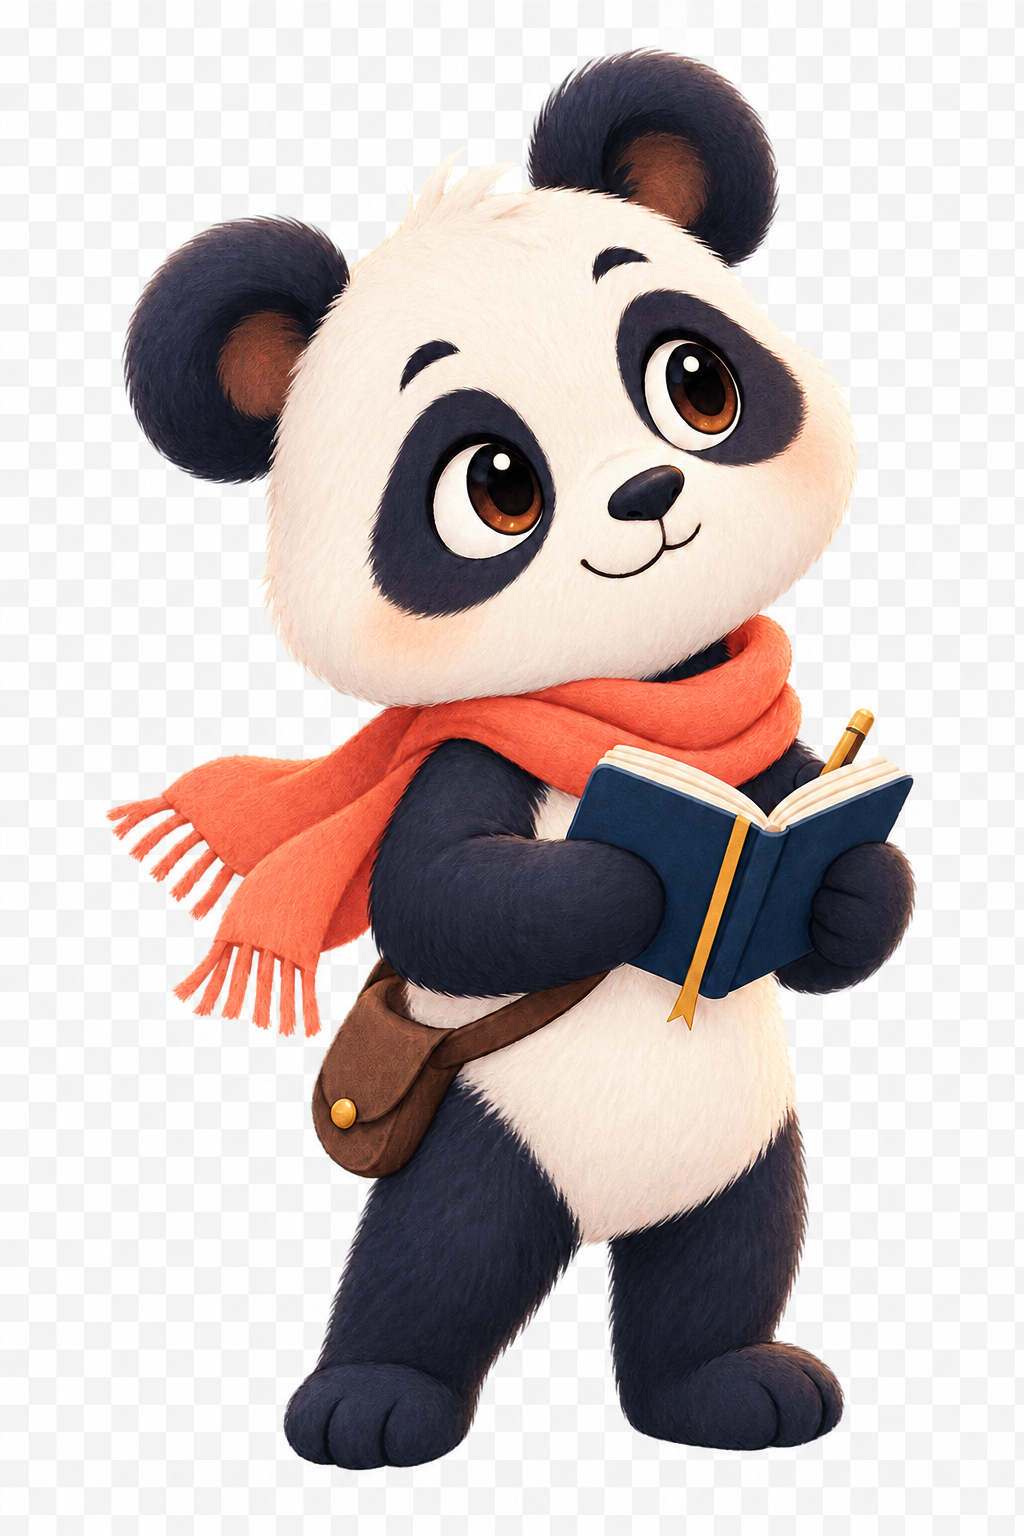
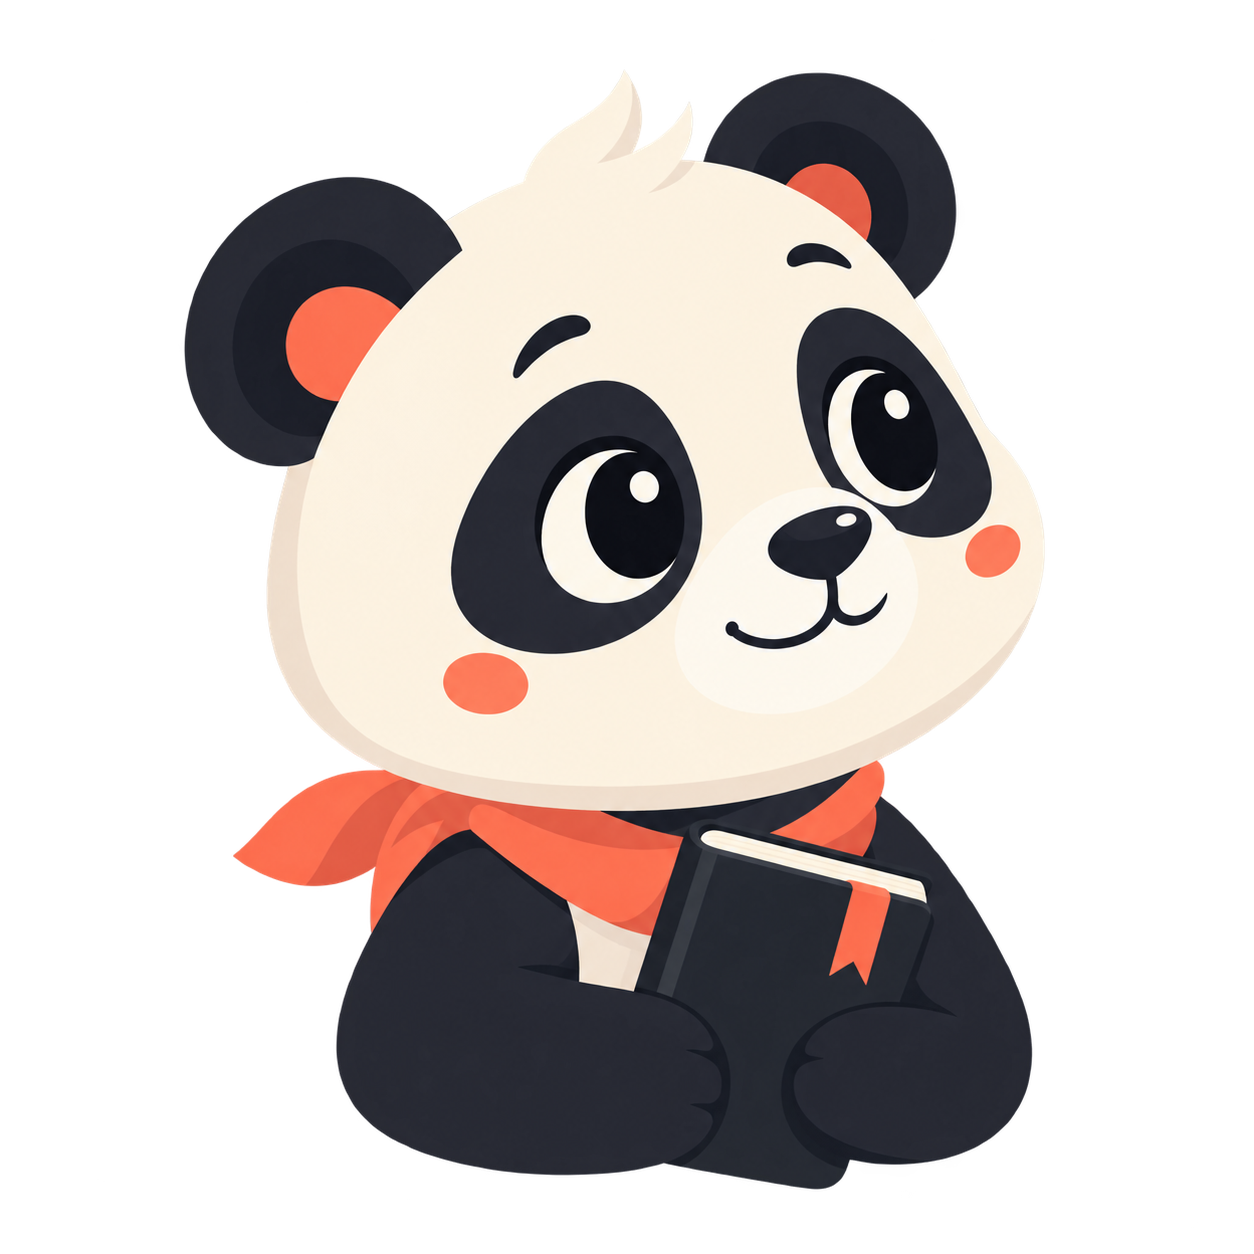
sparky-copy-and-mascot-refresh

diff --git a/src/app/page.tsx b/src/app/page.tsx
@@ -55,7 +55,7 @@ export default function Home() {
     const modelContext = (document as Document & { modelContext?: ModelContext }).modelContext;
     if (!modelContext?.registerTool) return;
     const lifecycle = new AbortController();
-    void modelContext.registerTool({
+    void Promise.resolve(modelContext.registerTool({
       name: "start_sparky_lesson", title: "Start a Sparky lesson", description: "Open a specific lesson in the visible Sparky English player.", inputSchema: { type: "object", properties: { lessonId: { type: "string" } }, required: ["lessonId"], additionalProperties: false }, annotations: { readOnlyHint: false, untrustedContentHint: false },
       execute(input: unknown) {
         const lessonId = isRecord(input) && typeof input.lessonId === "string" ? input.lessonId : "";
@@ -64,7 +64,7 @@ export default function Home() {
         setView("today"); setActiveLesson(lesson.steps.length ? lesson : { ...lesson, steps: lessons[0].steps }); setLessonStep(0); setSelectedAnswer(null);
         return { lessonId: lesson.id, title: lesson.title, status: "opened" };
       },
-    }, { signal: lifecycle.signal });
+    }, { signal: lifecycle.signal })).catch(() => undefined);
     return () => lifecycle.abort();
   }, []);
 
@@ -89,7 +89,12 @@ function ReviewView({ onStart }: { onStart: () => void }) { return <div classNam
 function ProfileView() { return <div className="mt-10"><p className="eyebrow">Your space</p><h2 className="mt-2 text-3xl font-semibold tracking-tight">Profile & preferences</h2><div className="mt-8 grid gap-4 sm:grid-cols-2"><div className="rounded-[2rem] border border-[#dfe3dc] bg-white/75 p-6"><p className="text-sm text-[#77908d]">Current level</p><p className="mt-2 text-3xl font-semibold">A1</p><p className="mt-2 text-sm text-[#6b7d7e]">Building the essentials</p></div><div className="rounded-[2rem] border border-[#dfe3dc] bg-white/75 p-6"><p className="text-sm text-[#77908d]">Total XP</p><p className="mt-2 text-3xl font-semibold">420</p><p className="mt-2 text-sm text-[#6b7d7e]">Sparky is impressed</p></div></div></div>; }
 function LessonCard({ lesson, index, done, onOpen, wide = false }: { lesson: Lesson; index: number; done: boolean; onOpen: (lesson: Lesson) => void; wide?: boolean }) { return <button onClick={() => onOpen(lesson)} className={`group flex w-full items-center gap-4 rounded-[1.5rem] border border-[#dfe3dc] bg-white/70 p-4 text-left transition hover:-translate-y-0.5 hover:border-[#c7d8ce] hover:bg-white ${wide ? "p-5" : ""}`}><div className={`grid h-12 w-12 shrink-0 place-items-center rounded-2xl ${done ? "bg-[#e4f0e8] text-[#4d8e75]" : "bg-[#fbe5d7] text-[#df7847]"}`}>{done ? <Check className="h-5 w-5" /> : <span className="font-mono text-sm">0{index + 1}</span>}</div><div className="min-w-0 flex-1"><div className="flex flex-wrap items-center gap-2"><p className="text-xs font-semibold uppercase tracking-[0.12em] text-[#7a918f]">{lesson.level}</p><span className="text-xs text-[#a0afac]">· {lesson.minutes} min</span></div><p className="mt-1 truncate font-semibold">{lesson.title}</p><p className="mt-1 text-sm text-[#6b7d7e]">{lesson.unit}</p></div><ChevronRight className="h-5 w-5 shrink-0 text-[#a4b4b0] transition group-hover:translate-x-1 group-hover:text-[#d96f42]" /></button>; }
 function LessonPlayer({ lesson, step, stepIndex, progress, selectedAnswer, onSelect, onNext, onClose }: { lesson: Lesson; step: LessonStep; stepIndex: number; progress: number; selectedAnswer: string | null; onSelect: (answer: string) => void; onNext: () => void; onClose: () => void }) { const isQuestion = step.kind === "choice" || step.kind === "complete_sentence"; const isCorrect = selectedAnswer && selectedAnswer === step.answer; return <div className="fixed inset-0 z-50 flex items-center justify-center bg-[#102a31]/80 p-4 backdrop-blur-md"><div className="flex h-[min(760px,calc(100vh-2rem))] w-full max-w-3xl flex-col overflow-hidden rounded-[2rem] bg-[#f8f4ed] shadow-2xl"><header className="flex items-center gap-4 border-b border-[#dfe3dc] px-5 py-4 sm:px-8"><button onClick={onClose} aria-label="Close lesson" className="grid h-9 w-9 place-items-center rounded-full text-[#6b7d7e] hover:bg-[#e9eee8]"><X className="h-4 w-4" /></button><div className="min-w-0 flex-1"><p className="truncate text-sm font-semibold">{lesson.title}</p><div className="mt-2 h-1.5 overflow-hidden rounded-full bg-[#e1e8e0]"><div className="h-full rounded-full bg-[#e78554] transition-all" style={{ width: `${progress}%` }} /></div></div><span className="font-mono text-xs text-[#7e9290]">{stepIndex + 1}/{lesson.steps.length}</span></header><div className="flex flex-1 flex-col items-center justify-center overflow-y-auto px-6 py-10 sm:px-16"><div className="grid h-20 w-20 place-items-center rounded-[1.75rem] bg-[#e5efea]"><Image src="/visuals/sparky-panda.png" alt="Sparky" width={100} height={140} className="mascot-cutout h-28 w-auto object-contain" /></div><p className="mt-8 text-center text-xs font-semibold uppercase tracking-[0.18em] text-[#df7847]">{step.kind === "teach" ? "A small idea" : step.kind === "summary" ? "Nice work" : "Try it"}</p><h2 className="mt-3 max-w-xl text-center text-3xl font-semibold leading-tight tracking-tight sm:text-4xl">{step.title}</h2><p className="mt-5 max-w-xl text-center text-base leading-7 text-[#617779]">{step.body}</p>{step.prompt && <p className="mt-8 rounded-2xl bg-white px-5 py-4 text-center text-xl font-semibold shadow-sm">{step.prompt}</p>}{isQuestion && step.options && <div className="mt-7 grid w-full max-w-xl gap-3">{step.options.map((option) => <button key={option} onClick={() => onSelect(option)} className={`rounded-2xl border px-5 py-4 text-left font-medium transition ${selectedAnswer === option ? option === step.answer ? "border-[#78a98e] bg-[#e8f3e9] text-[#3d725c]" : "border-[#d9785b] bg-[#fff0e9] text-[#ad5038]" : "border-[#dfe3dc] bg-white hover:border-[#b9cec3]"}`}>{option}</button>)}</div>}{isQuestion && selectedAnswer && <p className={`mt-5 text-sm font-medium ${isCorrect ? "text-[#438064]" : "text-[#ad5038]"}`}>{isCorrect ? "Exactly — that sounds natural." : `Almost. The best answer is “${step.answer}”.`}</p>}</div><footer className="flex items-center justify-between border-t border-[#dfe3dc] px-6 py-5 sm:px-8"><p className="text-sm text-[#81918f]">{step.kind === "summary" ? "Lesson complete" : "Take your time"}</p><button onClick={onNext} disabled={isQuestion && !selectedAnswer} className="primary-button disabled:cursor-not-allowed disabled:opacity-40">{stepIndex === lesson.steps.length - 1 ? "Finish lesson" : "Continue"}<ArrowRight className="h-4 w-4" /></button></footer></div></div>; }
-function Brand({ compact = false, light = false }: { compact?: boolean; light?: boolean }) { return <div className={`flex items-center gap-3 ${light ? "text-[#f9f4e9]" : "text-[#172b32]"}`}><div className="grid h-10 w-10 place-items-center rounded-2xl bg-[#e78554] text-white shadow-[0_8px_20px_-10px_rgba(215,111,66,0.8)]"><Sparkles className="h-5 w-5" /></div>{!compact && <div><p className="font-semibold tracking-tight">Sparky English</p><p className={`text-[0.68rem] uppercase tracking-[0.18em] ${light ? "text-[#9fbab3]" : "text-[#7a918f]"}`}>Learn with ease</p></div>}</div>; }
+function Brand({ compact = false, light = false }: { compact?: boolean; light?: boolean }) {
+  return <div className={`flex items-center gap-3 ${light ? "text-[#f9f4e9]" : "text-[#172b32]"}`}>
+    <div className="grid h-10 w-10 place-items-center rounded-2xl bg-[#e78554] text-white shadow-[0_8px_20px_-10px_rgba(215,111,66,0.8)]"><Sparkles className="h-5 w-5" /></div>
+    {!compact && <p className="font-semibold tracking-tight">Sparky English</p>}
+  </div>;
+}
 function NavButton({ item, active, onClick }: { item: (typeof navItems)[number]; active: boolean; onClick: () => void }) { const Icon = item.icon; return <button onClick={onClick} className={`flex w-full items-center gap-3 rounded-2xl px-3 py-3 text-sm font-medium transition ${active ? "bg-[#e7eee7] text-[#172b32]" : "text-[#78908e] hover:bg-white/60 hover:text-[#172b32]"}`}><Icon className="h-4 w-4" />{item.label}</button>; }
 type ModelContext = { registerTool: (tool: { name: string; title?: string; description: string; inputSchema: object; annotations?: object; execute: (input: unknown) => unknown | Promise<unknown> }, options?: { signal?: AbortSignal }) => void | Promise<void> };
 function isRecord(value: unknown): value is Record<string, unknown> { return typeof value === "object" && value !== null && !Array.isArray(value); }

diff --git a/src/app/opengraph-image.tsx b/src/app/opengraph-image.tsx
@@ -1,0 +1,45 @@
+import { ImageResponse } from "next/og";
+
+export const alt = "Sparky English";
+export const size = { width: 1200, height: 630 };
+export const contentType = "image/png";
+
+export default function OpenGraphImage() {
+  return new ImageResponse(
+    (
+      <div
+        style={{
+          alignItems: "center",
+          background: "#172b32",
+          color: "#f8f4ed",
+          display: "flex",
+          height: "100%",
+          justifyContent: "space-between",
+          padding: "72px 82px",
+          position: "relative",
+          width: "100%",
+        }}
+      >
+        <div style={{ display: "flex", flexDirection: "column", maxWidth: 650 }}>
+          <div style={{ color: "#f3a16c", display: "flex", fontSize: 26, letterSpacing: 5, textTransform: "uppercase" }}>
+            Espaço privado
+          </div>
+          <div style={{ display: "flex", fontSize: 76, fontWeight: 700, letterSpacing: -3, marginTop: 22 }}>
+            Sparky English
+          </div>
+          <div style={{ color: "#c7d5d0", display: "flex", fontSize: 30, lineHeight: 1.35, marginTop: 28 }}>
+            Aulas, prática e revisão para o inglês do dia a dia.
+          </div>
+        </div>
+        <div style={{ alignItems: "center", background: "#e78554", borderRadius: 92, display: "flex", height: 240, justifyContent: "center", position: "relative", width: 240 }}>
+          <div style={{ background: "#1e2932", borderRadius: 46, display: "flex", height: 112, left: 17, position: "absolute", top: 17, width: 112 }} />
+          <div style={{ background: "#1e2932", borderRadius: 46, display: "flex", height: 112, position: "absolute", right: 17, top: 17, width: 112 }} />
+          <div style={{ alignItems: "center", background: "#f8f4ed", borderRadius: 80, display: "flex", height: 158, justifyContent: "center", marginTop: 38, width: 174 }}>
+            <div style={{ alignItems: "center", background: "#172b32", borderRadius: 999, color: "#f8f4ed", display: "flex", fontSize: 42, fontWeight: 700, height: 80, justifyContent: "center", width: 80 }}>S</div>
+          </div>
+        </div>
+      </div>
+    ),
+    size,
+  );
+}

diff --git a/src/app/layout.tsx b/src/app/layout.tsx
@@ -17,17 +17,16 @@ export const metadata: Metadata = {
     process.env.NEXT_PUBLIC_SITE_URL ??
       (process.env.VERCEL_URL ? `https://${process.env.VERCEL_URL}` : "http://localhost:3000"),
   ),
-  title: "Sparky English | Learn with ease",
-  description: "Private, practical English lessons with Sparky.",
+  title: "Sparky English",
+  description: "Um espaço privado para estudar inglês de forma prática.",
   applicationName: "Sparky English",
   appleWebApp: { capable: true, title: "Sparky English", statusBarStyle: "default" },
   openGraph: {
     title: "Sparky English",
-    description: "Pequenas lições. Progresso que fica.",
+    description: "Aulas, prática e revisão para usar inglês no dia a dia.",
     type: "website",
-    images: [{ url: "/og.png", width: 1200, height: 630, alt: "Sparky English" }],
   },
-  twitter: { card: "summary_large_image", images: ["/og.png"] },
+  twitter: { card: "summary" },
 };
 
 export default function RootLayout({ children }: LayoutProps<"/">) {

diff --git a/src/app/globals.css b/src/app/globals.css
@@ -12,5 +12,5 @@ button { cursor: pointer; }
 .primary-button:hover { background: #d87346; transform: translateY(-1px); box-shadow: 0 15px 30px -16px rgba(215, 111, 66, 0.95); }
 .hero-card { background: radial-gradient(circle at 85% 12%, rgba(93, 157, 151, 0.65), transparent 34%), linear-gradient(135deg, #17333a 0%, #214b4e 100%); }
 .glass-panel { background: linear-gradient(145deg, rgba(16, 43, 49, 0.78), rgba(7, 25, 31, 0.62)); border: 1px solid rgba(255, 255, 255, 0.16); box-shadow: 0 35px 100px -30px rgba(0, 0, 0, 0.72), inset 0 1px 0 rgba(255, 255, 255, 0.14); backdrop-filter: blur(28px) saturate(135%); }
-.mascot-cutout { filter: drop-shadow(0 14px 18px rgba(13, 37, 40, 0.2)); }
+.mascot-cutout { filter: drop-shadow(0 8px 12px rgba(13, 37, 40, 0.12)); }
 @media (prefers-reduced-motion: reduce) { *, *::before, *::after { scroll-behavior: auto !important; transition-duration: 0.01ms !important; animation-duration: 0.01ms !important; } }

diff --git a/src/app/manifest.ts b/src/app/manifest.ts
@@ -4,7 +4,7 @@ export default function manifest(): MetadataRoute.Manifest {
   return {
     name: "Sparky English",
     short_name: "Sparky",
-    description: "Private, practical English lessons with Sparky.",
+    description: "Um espaço privado para estudar inglês de forma prática.",
     start_url: "/",
     display: "standalone",
     background_color: "#f7f3ec",

diff --git a/public/sw.js b/public/sw.js
@@ -1,4 +1,4 @@
-const CACHE_NAME = "sparky-shell-v1";
+const CACHE_NAME = "sparky-shell-v2";
 const SHELL = ["/", "/manifest.webmanifest", "/visuals/sparky-panda.png"];
 
 self.addEventListener("install", (event) => {
